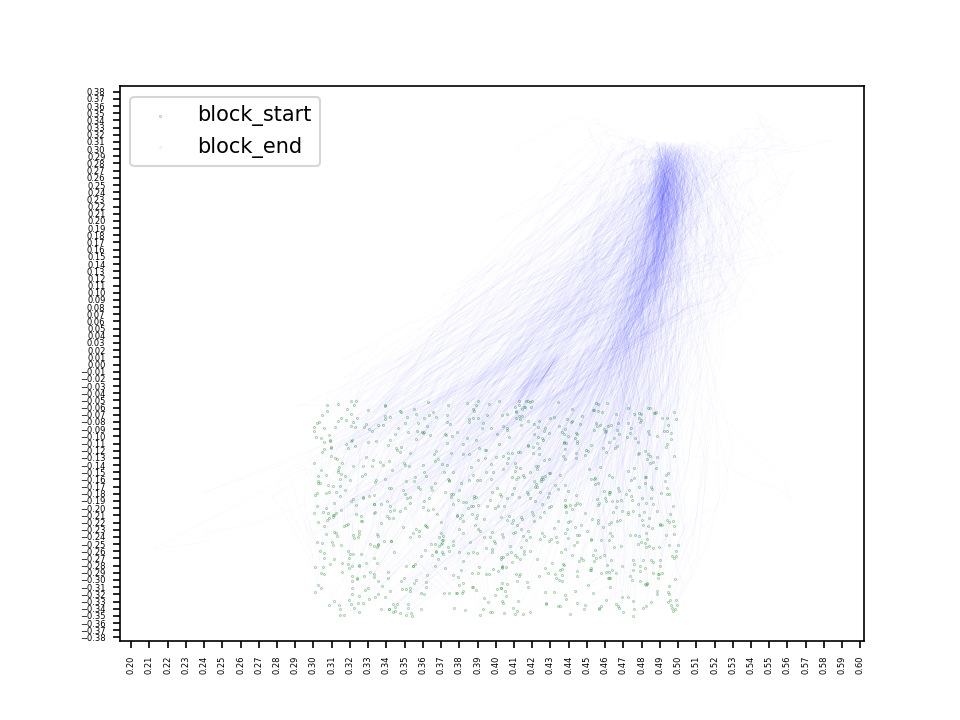
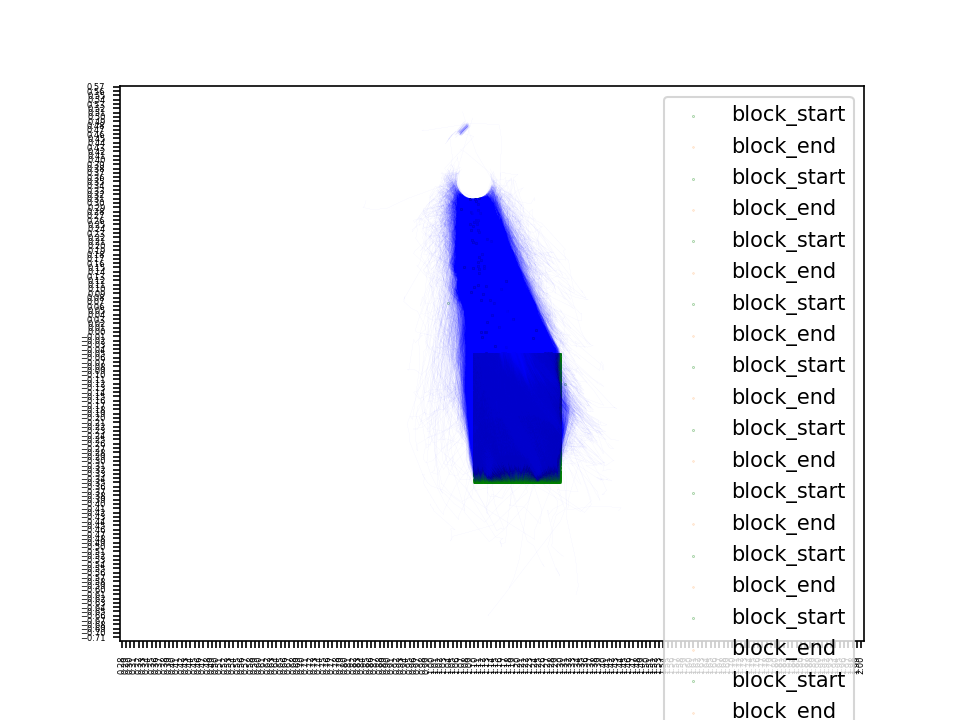
Replot

diff --git a/diffusha/actor/loss_dist_ood.py b/diffusha/actor/loss_dist_ood.py
@@ -77,14 +77,14 @@ def plot_ood_on_train_traj(rep_states, path1, path2=None):
 
     def obs_xy_to_plot_xy(x, y):
         return np.array([
-            -x + 0.4,
+            0.8 + x + 0.4,
              y + 0.35,
         ])
 
     def obs_action_to_plot_vec(ax_, ay_):
         # Same x flip as positions, no offset for vectors
         return np.array([
-            ax_,
+            -ax_,
              ay_,
         ])
 
@@ -128,8 +128,8 @@ def plot_ood_on_train_traj(rep_states, path1, path2=None):
     # Start with actual env-inspired positions, but adjust if needed.
     # Green is placed over/near the blue clump.
     # Red is slightly to the +x side from viewer perspective here.
-    green_center = np.array([0.50, 0.3])
-    red_center   = np.array([0.30, 0.3])
+    green_center = np.array([0.50 + 0.8 , 0.3])
+    red_center   = np.array([0.30 + 0.8, 0.3])
 
     target_size = 0.02
 
@@ -230,11 +230,12 @@ def plot_ood_on_train_traj(rep_states, path1, path2=None):
 
 
 
-    ax.legend(loc="lower left", bbox_to_anchor=(1,1))
+    #ax.legend(loc="lower left", bbox_to_anchor=(1,1))
+    ax.legend(fontsize=8)
     ax.set_title("Trajectory Comparison")
     ax.set_xlabel("X")
     ax.set_ylabel("Y")
-    ax.grid(True)
+    #ax.grid(True)
     ax.axis("equal")
 
     plt.tight_layout()
@@ -330,30 +331,30 @@ if __name__ == "__main__":
 
     which_ckpt = Path(sys.argv[1]) # folder name only
 
-    from diffusha.data_collection.env import make_env
+    # from diffusha.data_collection.env import make_env
 
     import time
 
-    fwd_diff_ratio = 0.0 # GAMMA = 0!
+    # fwd_diff_ratio = 0.0 # GAMMA = 0!
 
-    env_name =  "BlockPushMultimodal-v1"
+    # env_name =  "BlockPushMultimodal-v1"
 
-    env = make_env(
-        env_name,
-        seed=1,
-        test=False
-    )
+    # env = make_env(
+    #     env_name,
+    #     seed=1,
+    #     test=False
+    # )
 
-    obs_space = env.observation_space
-    act_space = env.action_space
-    print("obs_space, ", obs_space)
-    print("act_space, ", act_space)
+    # obs_space = env.observation_space
+    # act_space = env.action_space
+    # print("obs_space, ", obs_space)
+    # print("act_space, ", act_space)
     
-    with open(Path(__file__).parents[1] / "diffusion" / "evaluation" / "configs.json", "r") as f:
-        env2config = json.load(f)
+    # with open(Path(__file__).parents[1] / "diffusion" / "evaluation" / "configs.json", "r") as f:
+    #     env2config = json.load(f)
 
-    model_dir = Path(__file__).parents[2] / which_ckpt
-    print("model_dir, ", model_dir)
+    # model_dir = Path(__file__).parents[2] / which_ckpt
+    # print("model_dir, ", model_dir)
 
     # NOTE - always use 2023
     if "2023" in which_ckpt.name:
@@ -372,66 +373,66 @@ if __name__ == "__main__":
     print("shape of states array, ", states.shape)
     print("length of states array, ", len(states))
 
-    # 3. instantiate a diffusion model with gamma = 0.0
-    laggy_actor_repeat_prob = 0; noisy_actor_eps = 0
+    # # 3. instantiate a diffusion model with gamma = 0.0
+    # laggy_actor_repeat_prob = 0; noisy_actor_eps = 0
 
-    diffusion = prepare_diffusha(
-            env, 
-            env2config[env_name], 
-            model_dir,
-            29999,
-            env_name,
-            fwd_diff_ratio,
-            laggy_actor_repeat_prob,
-            noisy_actor_eps
-        )
-    print(diffusion, flush=True)
+    # diffusion = prepare_diffusha(
+    #         env, 
+    #         env2config[env_name], 
+    #         model_dir,
+    #         29999,
+    #         env_name,
+    #         fwd_diff_ratio,
+    #         laggy_actor_repeat_prob,
+    #         noisy_actor_eps
+    #     )
+    # print(diffusion, flush=True)
 
     # 4. input ood state from 2. and plot losses on the same plot after accumulating them
     # 4-1. calculate losses 
 
-    Nb = 512
+    # Nb = 512
 
-    all_losses = []; file_times = []; all_losses_flattened = []
+    # all_losses = []; file_times = []; all_losses_flattened = []
 
-    for i in range(len(states)):
-        if i == 1:
-            break
-        losses_for_file = []
+    # for i in range(len(states)):
+    #     if i == 1:
+    #         break
+    #     losses_for_file = []
 
-        states_for_file = states[i]
-        file_start = time.time()
+    #     states_for_file = states[i]
+    #     file_start = time.time()
 
-        for j, state in enumerate(states_for_file):
+    #     for j, state in enumerate(states_for_file):
 
-            if j % 100 == 0:
-                print(f"going through {j}-th row in {i}-th file")
-            state_tensor = torch.tensor(state, dtype = torch.float32).unsqueeze(0) # this is a single row
+    #         if j % 100 == 0:
+    #             print(f"going through {j}-th row in {i}-th file")
+    #         state_tensor = torch.tensor(state, dtype = torch.float32).unsqueeze(0) # this is a single row
             
-            with torch.no_grad():
-                loss = noise_estimation_loss_nb_infer(diffusion, state_tensor, obs_size=7, Nb=Nb)
-            losses_for_file.append(loss)
+    #         with torch.no_grad():
+    #             loss = noise_estimation_loss_nb_infer(diffusion, state_tensor, obs_size=7, Nb=Nb)
+    #         losses_for_file.append(loss)
 
-        file_elapsed = time.time() - file_start
-        file_times.append(file_elapsed)
+    #     file_elapsed = time.time() - file_start
+    #     file_times.append(file_elapsed)
 
-        avg_time = np.mean(file_times)
-        files_remaining = len(states) - (i + 1)
-        eta_seconds = avg_time * files_remaining
-        eta_min = eta_seconds / 60
+    #     avg_time = np.mean(file_times)
+    #     files_remaining = len(states) - (i + 1)
+    #     eta_seconds = avg_time * files_remaining
+    #     eta_min = eta_seconds / 60
 
-        print(f"[{i+1}/{len(states)}] | "
-              f"took {file_elapsed:.1f}s | "
-              f"avg {avg_time:.1f}s/file | "
-              f"ETA {eta_min:.1f} min")
+    #     print(f"[{i+1}/{len(states)}] | "
+    #           f"took {file_elapsed:.1f}s | "
+    #           f"avg {avg_time:.1f}s/file | "
+    #           f"ETA {eta_min:.1f} min")
 
-        all_losses.append(losses_for_file)
+    #     all_losses.append(losses_for_file)
 
-        all_losses_flattened.extend(losses_for_file)
+    #     all_losses_flattened.extend(losses_for_file)
 
-    df = pd.DataFrame({"loss": all_losses_flattened})
-    df.to_csv("flipped(ood)_vs_2023_100_1824.csv", index = False)
-    print("ood losses saved to csv")
+    # df = pd.DataFrame({"loss": all_losses_flattened})
+    #df.to_csv("flipped(ood)_vs_2023_100_1824.csv", index = False)
+    # print("ood losses saved to csv")
     
     # 4-2. ood losses plot only
     #plot_ood_losses_1(all_losses)
@@ -444,7 +445,7 @@ if __name__ == "__main__":
     # quantile analysis - 25, 50, 75, 99 quantile for train vs ood
     ood_losses = load_ood_loss(ood_loss_csv_path)
 
-    #train_q, ood_q, rep_states = quantile_analysis(train_losses, ood_losses, states)
+    train_q, ood_q, rep_states = quantile_analysis(train_losses, ood_losses, states)
 
     # grab state for p25 ood, p50 ood, p75 ood, and p99 ood based on quantile analysis results
     # quantile_analysis may return instead of plain print
@@ -477,4 +478,4 @@ if __name__ == "__main__":
     
     #training_data_csv_path = Path(__file__).parents[2] / "data-dir" / "replay" / "blockpush" / "orig_2023_csv_backup"
     training_data_csv_path = Path(__file__).parents[2] / "data-dir" / "replay" / "blockpush" / "orig_2023_csv_with_eps"
-    #plot_ood_on_train_traj(rep_states, path1 = training_data_csv_path)
+    plot_ood_on_train_traj(rep_states, path1 = training_data_csv_path)

diff --git a/diffusha/data_collection/viz_csvs.py b/diffusha/data_collection/viz_csvs.py
@@ -1,3 +1,6 @@
+# usecase - "python diffusha/data_collection/viz_csvs.py data-dir/replay/blockpush/orig_2023_csv_with_eps/
+
+
 from pathlib import Path
 import sys
 import pandas as pd
@@ -8,68 +11,57 @@ matplotlib.set_loglevel("critical")
 import matplotlib.pyplot as plt
 
 
-# ee version - one plot per csv (ignored multiple episodes inside csv)
-# def plot_path(path, zoom_endpoints_only=False, no_plot_ee_end=False):
+# USE THIS WHEN STANDALONE
+# def plot_path(path, zoom_endpoints_only=False, no_plot_ee_end=False, use_saved_png=True, return_option=False):
 #     csvs = sorted([entry.name for entry in path.iterdir() if entry.name.endswith(".csv")])
-
 #     coord_offset = np.array([0.4, 0.35])
 
-#     plt.figure()
-
-#     for i, csv in enumerate(csvs):
-#         print("i, ", i)
-
+#     for i, csv in enumerate(csvs[:1]):
+#         if i % 5 == 0:
+#             print(f"going through {i}th file out of {len(csvs)} in total")
 #         full_csv_path = path / csv
-#         df = pd.read_csv(full_csv_path, header=None)
+#         print(full_csv_path)
+#         df = pd.read_csv(full_csv_path, header=0)
 
-#         ee_centered = df.iloc[:, [3, 4]].to_numpy(dtype=float)
+#         fig, ax = plt.subplots()  # ← one figure per CSV, inside the loop
 
-#         # Same mapping as PyBullet replay:
-#         # world_x = -centered_x + 0.4
-#         # world_y =  centered_y + 0.35
-#         ee_world = np.column_stack([
-#             -ee_centered[:, 0],
-#              ee_centered[:, 1],
-#         ]) + coord_offset
+#         for ep_id, ep_df in df.groupby("episode"):
+#             block_centered = ep_df[["block_x", "block_y"]].to_numpy(dtype=float)
+#             block_world = np.column_stack([
+#                 0.8 + block_centered[:, 0],
+#                 block_centered[:, 1],
+#             ]) + coord_offset
 
-#         ee_x = ee_world[:, 0]
-#         ee_y = ee_world[:, 1]
+#             blk_x = block_world[:, 0]
+#             blk_y = block_world[:, 1]
+#             start_x, start_y = block_world[0]
+#             end_x,   end_y   = block_world[-1]
 
-#         start_x, start_y = ee_world[0]
-#         end_x, end_y = ee_world[-1]
+#             if not zoom_endpoints_only:
+#                 ax.plot(blk_x, blk_y, color="blue", lw=0.01, alpha=0.7)
+#             ax.scatter(start_x, start_y, c="green", s=0.02)
+#             if not no_plot_ee_end:
+#                 ax.scatter(end_x, end_y, c="peachpuff", s=0.02, marker="v",
+#                            edgecolors="black", linewidths=0.5)
 
-#         label_traj = "ee_pos" if i == 0 else None
-#         label_start = "ee_start_pos" if i == 0 else None
-#         label_end = "ee_end_pos" if i == 0 else None
+#         ax.scatter([], [], c="green", s=0.02, label="block_start")
+#         ax.scatter([], [], c="peachpuff", s=0.02, marker="v", label="block_end")
 
-#         if not zoom_endpoints_only:
-#             plt.plot(ee_x, ee_y, color="blue", lw=0.01, alpha=0.25, label=label_traj)
+#         # ax.set_xlim(0.4, 0.6)
+#         # ax.set_ylim(-0.3, 0.3)
+#         ax.xaxis.set_major_locator(plt.MultipleLocator(0.01))
+#         ax.yaxis.set_major_locator(plt.MultipleLocator(0.01))
+#         ax.tick_params(axis='both', labelsize=4)
+#         plt.xticks(rotation=90)
+#         ax.legend()
+#         ax.axis("equal")
 
-#         plt.scatter(start_x, start_y, c="green", s=30, label=label_start)
+#         out_path = Path(__file__).parents[1] / "data_collection" / "train_data_traj.png"
+#         fig.savefig(out_path, dpi=150)
+#         if not return_option:
+#             plt.close(fig)
 
-#         if not no_plot_ee_end:
-#             plt.scatter(
-#                 end_x,
-#                 end_y,
-#                 c="peachpuff",
-#                 s=120,
-#                 marker="v",
-#                 edgecolors="black",
-#                 linewidths=0.5,
-#                 label=label_end,
-#             )
-
-
-#     plt.xlabel("X")
-#     plt.ylabel("Y")
-#     plt.title("Trajectory Comparison")
-#     plt.legend()
-#     plt.axis("equal")
-#     plt.grid(True)
-#     plt.show()
-
-#     print("Saved plot to 2023_ee_traj.png")
-
+# USE THIS WHEN WITH CALLS
 def plot_path(path, zoom_endpoints_only=False, no_plot_ee_end=False, use_saved_png=True, return_option=False):
     csvs = sorted([entry.name for entry in path.iterdir() if entry.name.endswith(".csv")])
     coord_offset = np.array([0.4, 0.35])
@@ -88,7 +80,7 @@ def plot_path(path, zoom_endpoints_only=False, no_plot_ee_end=False, use_saved_p
         for ep_id, ep_df in df.groupby("episode"):
             block_centered = ep_df[["block_x", "block_y"]].to_numpy(dtype=float)
             block_world = np.column_stack([
-                -block_centered[:, 0],
+                0.8 + block_centered[:, 0],
                 block_centered[:, 1],
             ]) + coord_offset
 
@@ -109,15 +101,20 @@ def plot_path(path, zoom_endpoints_only=False, no_plot_ee_end=False, use_saved_p
         ax.scatter([], [], c="peachpuff", s=0.02, marker="v", label="block_end")
 
         ax = plt.gca()
+
+        # NOTE: comment when running with ood on traj generation
         # ax.set_xlim(0.4, 0.6)
         # ax.set_ylim(-0.3, 0.3)
-        # ax.xaxis.set_major_locator(plt.MultipleLocator(0.01))
-        # ax.yaxis.set_major_locator(plt.MultipleLocator(0.01))
-        # ax.tick_params(axis='both', labelsize=4)
-        # plt.xticks(rotation=90)
-        # plt.legend()
-        # out_path = Path(__file__).parents[1] / "data_collection" / "train_data_traj.png"
-        # plt.savefig(out_path, dpi=150)
+
+        ax.axis("equal")
+
+        ax.xaxis.set_major_locator(plt.MultipleLocator(0.01))
+        ax.yaxis.set_major_locator(plt.MultipleLocator(0.01))
+        ax.tick_params(axis='both', labelsize=4)
+        plt.xticks(rotation=90)
+        plt.legend()
+        out_path = Path(__file__).parents[1] / "data_collection" / "train_data_traj.png"
+        plt.savefig(out_path, dpi=150)
         if not return_option:
             plt.close()
 